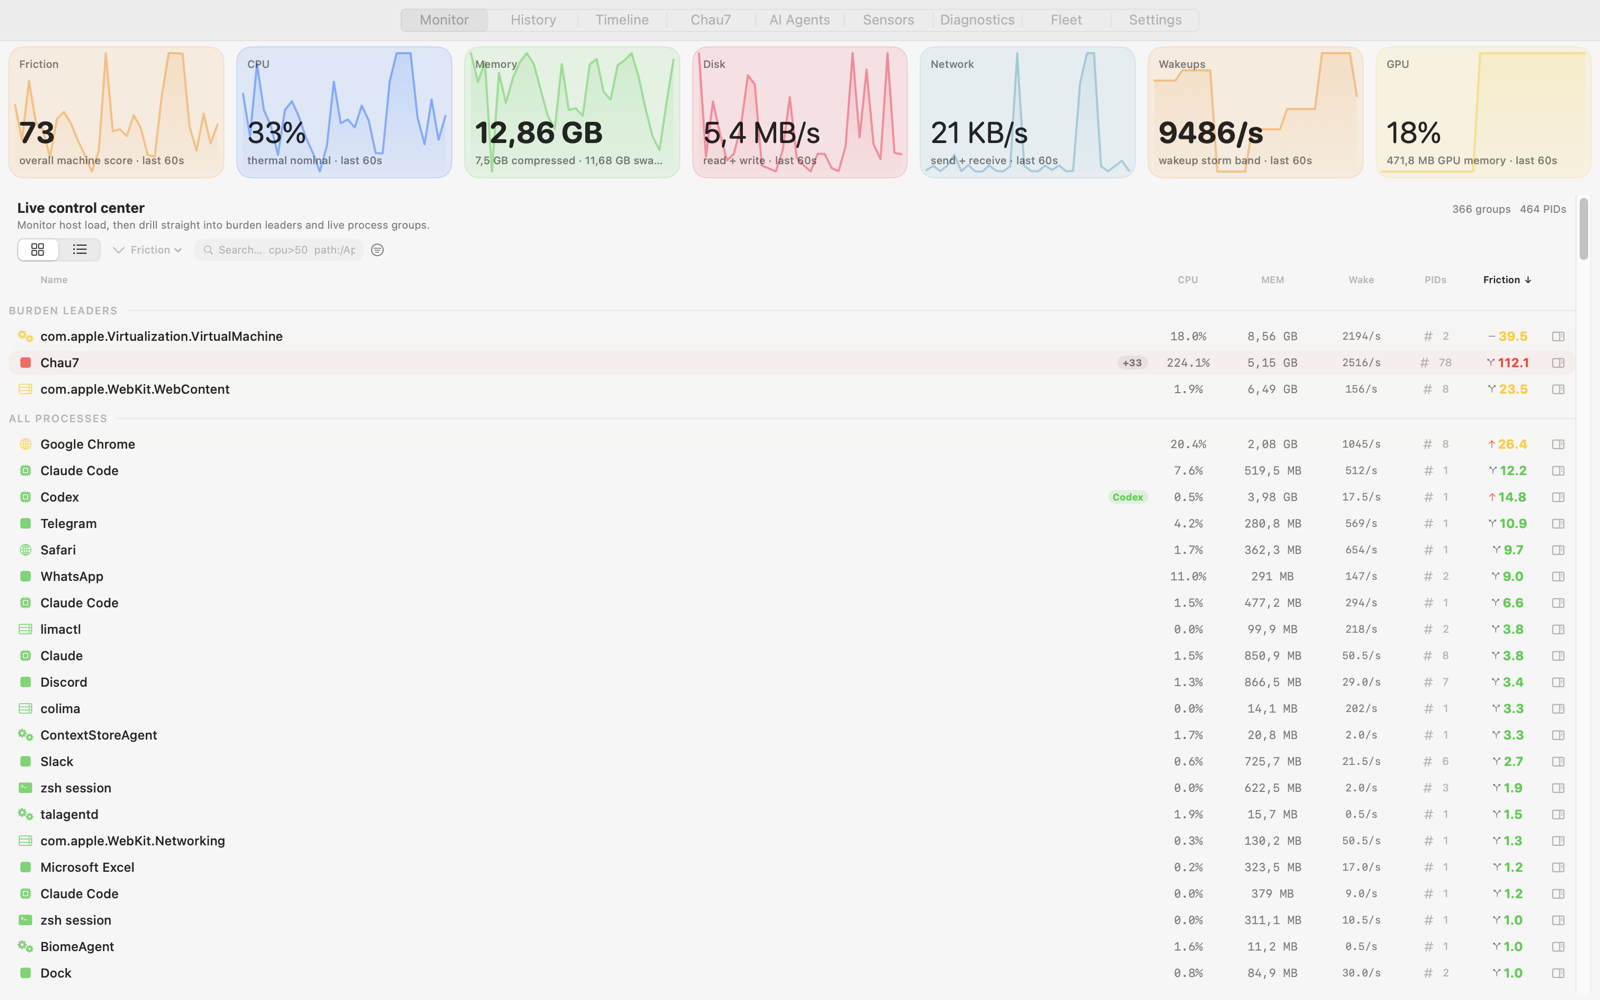
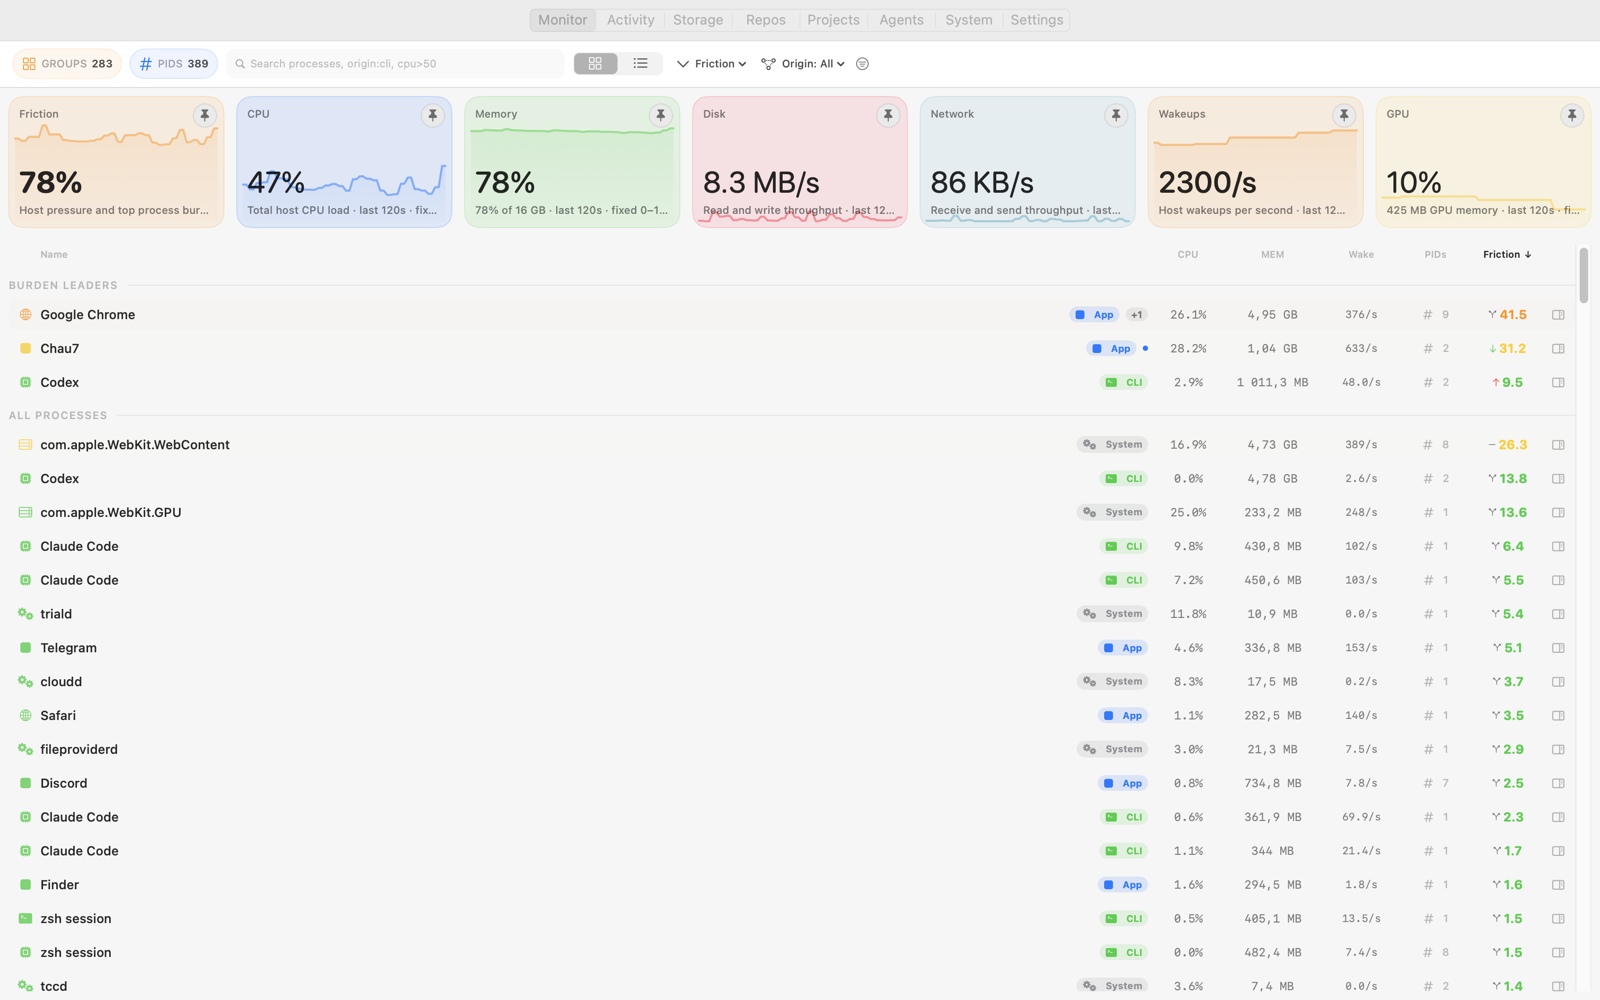
feat(site): replace tour mocks with real app captures
Fresh Monitor capture in the hero, and real screenshots of the Agents
workspace (live Chau7 runtime, sessions with prompts/approvals) and the
Activity overview (timeline cards + incident narrative) on the first two
ladder rungs. Storage and Repos keep their CSS mocks until clean
post-scan captures land. Includes the copy restructure of the ladder and
the merged CLI + MCP section.

diff --git a/site/index.html b/site/index.html
@@ -1152,12 +1152,9 @@
 
         <!-- Real capture of the Monitor tab from the current build. -->
         <figure class="mock shot">
-          <div class="mock-bar">
-            <i></i><i></i><i></i><span class="mono">Aetower · Monitor</span>
-          </div>
           <img
             src="/assets/aetower-monitor.png"
-            alt="Aetower's Monitor tab: a metric ring header for CPU, memory, disk, network, and wakeups above a friction-ranked list of running entities."
+            alt="Aetower's Monitor tab: metric cards for friction, CPU, memory, disk, network, wakeups, and GPU above a friction-ranked list of running entities, led by the burden leaders."
             width="1600"
             height="1000"
             loading="lazy"
@@ -1221,40 +1218,17 @@
                 <li>Recommendations that adapt to battery, thermal state, and memory pressure.</li>
               </ul>
             </div>
-            <div class="mock">
-              <div class="mock-bar"><i></i><i></i><i></i><span class="mono">Monitor · by friction</span></div>
-              <div class="mock-body">
-                <div class="m-head"><span>Entity</span><span>Friction</span></div>
-                <div class="m-row">
-                  <div>
-                    <div class="name">Chrome <span class="tag">entity · 48 processes</span></div>
-                    <div class="meter"><b style="width: 72%; background: linear-gradient(90deg, #f59e0b, #ef4444)"></b></div>
-                  </div>
-                  <div class="score">72</div>
-                </div>
-                <div class="m-row">
-                  <div>
-                    <div class="name">Ollama <span class="tag">AI runtime · GPU-bound · 8.1 W</span></div>
-                    <div class="meter"><b style="width: 58%; background: linear-gradient(90deg, var(--purple), #f59e0b)"></b></div>
-                  </div>
-                  <div class="score">58</div>
-                </div>
-                <div class="m-row">
-                  <div>
-                    <div class="name">Spotlight <span class="tag">system · indexing burst</span></div>
-                    <div class="meter"><b style="width: 31%; background: var(--green)"></b></div>
-                  </div>
-                  <div class="score">31</div>
-                </div>
-                <div class="m-row">
-                  <div>
-                    <div class="name">Claude Code <span class="tag">agent · repo aetower · 0.2 W</span></div>
-                    <div class="meter"><b style="width: 14%; background: var(--green)"></b></div>
-                  </div>
-                  <div class="score">14</div>
-                </div>
-              </div>
-            </div>
+            <!-- Real capture of the Agents workspace (live Chau7 runtime). -->
+            <figure class="mock shot">
+              <img
+                src="/assets/aetower-agents.png"
+                alt="Aetower's Agents workspace: live CPU, memory, wakeups, and disk cards for the agent runtime, a session counter showing prompts and approvals, and per-session cards with repo, branch, and resource chips."
+                width="1600"
+                height="1222"
+                loading="lazy"
+                decoding="async"
+              />
+            </figure>
           </div>
 
           <div class="stop">
@@ -1272,19 +1246,17 @@
                 <li>Reverse pivots: which process holds this file, port, or socket.</li>
               </ul>
             </div>
-            <!-- Swap for /assets/aetower-activity.png when captured. -->
-            <div class="mock">
-              <div class="mock-bar"><i></i><i></i><i></i><span class="mono">Activity · Timeline</span></div>
-              <div class="mock-body">
-                <div class="feed">
-                  <div class="evt info"><time>15:12</time><i></i><span><strong>Chrome</strong> friction rose to 65 — WebGL tab is top contributor</span></div>
-                  <div class="evt warn"><time>15:13</time><i></i><span>Thermal state degraded to <strong>Serious</strong></span></div>
-                  <div class="evt crit"><time>15:14</time><i></i><span><strong>helperd</strong> restart loop detected — 4 restarts in 90 s</span></div>
-                  <div class="evt ai"><time>15:21</time><i></i><span><strong>Claude Code</strong> session ended · 412 mWh · 38 mAh</span></div>
-                  <div class="evt info"><time>15:24</time><i></i><span>Memory pressure back to <strong>Normal</strong></span></div>
-                </div>
-              </div>
-            </div>
+            <!-- Real capture of the Activity workspace (Overview mode). -->
+            <figure class="mock shot">
+              <img
+                src="/assets/aetower-activity.png"
+                alt="Aetower's Activity workspace in Overview mode: cards for timeline events, criticals, persisted history range, and safe mode, above a recent timeline narrating friction spikes, anomalies, and disk churn."
+                width="1600"
+                height="1222"
+                loading="lazy"
+                decoding="async"
+              />
+            </figure>
           </div>
 
           <div class="stop">
